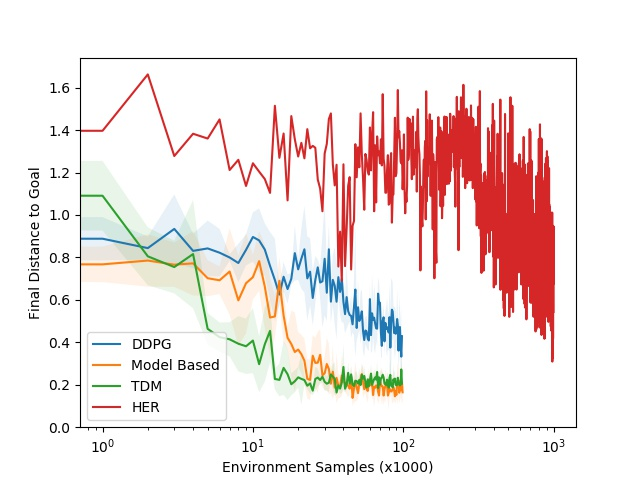
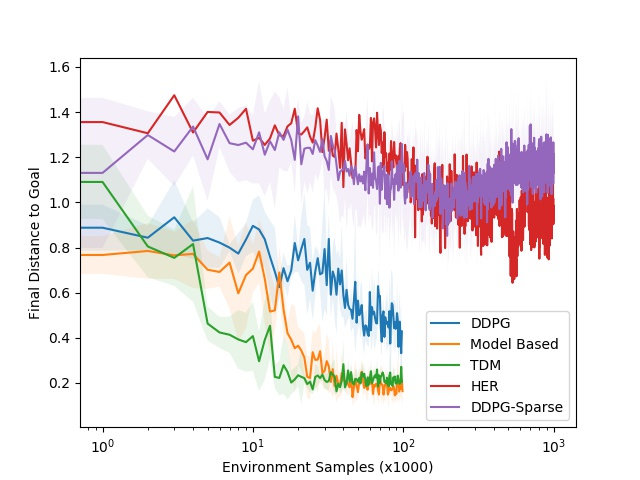
finish pusher plot

diff --git a/experiments/state_distance/iclr2018/pusher_results.py b/experiments/state_distance/iclr2018/pusher_results.py
@@ -4,78 +4,80 @@ import numpy as np
 
 from railrl.misc.visualization_util import sliding_mean
 
-her_exp = Experiment(
-    "/home/vitchyr/git/railrl/data/doodads3/12-22-her-andrychowicz-try-hard-2/"
-)
-her_andry_trials = her_exp.get_trials({
-    'env_class.$class': 'railrl.envs.multitask.pusher2d.CylinderXYPusher2DEnv',
-    'exp_id': '22',
-})
+def main():
+    her_andry_trials = Experiment(
+        "/home/vitchyr/git/railrl/data/doodads3/12-24-her-andrychowicz-pusher-rebutal/"
+    ).get_trials({
+        'exp_id': '11',
+    })
 
-ddpg_path = "/mnt/data-backup-12-02-2017/doodads3/10-25-ddpg-pusher-again-baseline-with-reward-bonus/"
-ddpg_criteria = {
-    'algo_params.num_updates_per_env_step': 5,
-    'algo_params.scale_reward': 1,
-    'algo_params.tau': 0.01,
-}
-mb_path = "/mnt/data-backup-12-02-2017/doodads3/10-25-abhishek-mb-baseline-pusher-again-shaped/"
-mb_criteria = None
-our_path = "/mnt/data-backup-12-02-2017/doodads3/11-02-get-results-handxyxy-small-sweep"
-our_criteria = {
-    'algo_params.num_updates_per_env_step': 5,
-    'epoch_discount_schedule_params.value': 5,
-    'algo_params.tau': 0.001,
-}
-ddpg_indicator_trials = Experiment(
-    "/home/vitchyr/git/railrl/data/doodads3/12-23-ddpg-sparse-sweep-4/"
-).get_trials({
-    'env_class.$class': 'railrl.envs.multitask.pusher2d.CylinderXYPusher2DEnv',
-    'ddpg_tdm_kwargs.base_kwargs.num_updates_per_env_step': 1,
-})
+    ddpg_path = "/mnt/data-backup-12-02-2017/doodads3/10-25-ddpg-pusher-again-baseline-with-reward-bonus/"
+    ddpg_criteria = {
+        'algo_params.num_updates_per_env_step': 5,
+        'algo_params.scale_reward': 1,
+        'algo_params.tau': 0.01,
+    }
+    mb_path = "/mnt/data-backup-12-02-2017/doodads3/10-25-abhishek-mb-baseline-pusher-again-shaped/"
+    mb_criteria = None
+    our_path = "/mnt/data-backup-12-02-2017/doodads3/11-02-get-results-handxyxy-small-sweep"
+    our_criteria = {
+        'algo_params.num_updates_per_env_step': 5,
+        'epoch_discount_schedule_params.value': 5,
+        'algo_params.tau': 0.001,
+    }
+    ddpg_indicator_trials = Experiment(
+        "/home/vitchyr/git/railrl/data/doodads3/12-23-ddpg-sparse-sweep-4/"
+    ).get_trials({
+        'env_class.$class': 'railrl.envs.multitask.pusher2d.CylinderXYPusher2DEnv',
+        'ddpg_tdm_kwargs.base_kwargs.num_updates_per_env_step': 1,
+    })
 
-ddpg_exp = Experiment(ddpg_path)
-mb_exp = Experiment(mb_path)
-our_exp = Experiment(our_path)
+    ddpg_exp = Experiment(ddpg_path)
+    mb_exp = Experiment(mb_path)
+    our_exp = Experiment(our_path)
 
-ddpg_trials = ddpg_exp.get_trials(ddpg_criteria)
-mb_trials = mb_exp.get_trials(mb_criteria)
-our_trials = our_exp.get_trials(our_criteria)
-MAX_ITERS = 1000
+    ddpg_trials = ddpg_exp.get_trials(ddpg_criteria)
+    mb_trials = mb_exp.get_trials(mb_criteria)
+    our_trials = our_exp.get_trials(our_criteria)
+    MAX_ITERS = 1000
 
-base_key = 'Final_Euclidean_distance_to_goal_Mean'
-plt.figure()
-for trials, name, key in [
-    (ddpg_trials, 'DDPG', base_key),
-    (mb_trials, 'Model Based', base_key),
-    (our_trials, 'TDM', 'test_'+base_key),
-    (her_andry_trials, 'HER', "Final Distance object to goal Mean"),
-    (ddpg_indicator_trials, 'DDPG-Sparse', base_key),
-]:
-    key = key.replace(" ", "_")
-    all_values = []
-    min_len = np.inf
-    for trial in trials:
-        values_ts = trial.data[key]
-        min_len = min(min_len, len(values_ts))
-        all_values.append(values_ts)
-    costs = np.vstack([
-        values[:min_len]
-        for values in all_values
-    ])
-    costs = costs[:, :min(costs.shape[1], MAX_ITERS)]
-    if name == 'HER':
-        costs = sliding_mean(costs, 20)
-    mean = np.mean(costs, axis=0)
-    std = np.std(costs, axis=0)
-    epochs = np.arange(0, len(costs[0]))
-    plt.fill_between(epochs, mean - std, mean + std, alpha=0.1)
-    plt.plot(epochs, mean, label=name)
-
+    base_key = 'Final_Euclidean_distance_to_goal_Mean'
+    plt.figure()
+    for trials, name, key in [
+        (ddpg_trials, 'DDPG', base_key),
+        (mb_trials, 'Model Based', base_key),
+        (our_trials, 'TDM', 'test_'+base_key),
+        (her_andry_trials, 'HER', "Final Distance object to goal Mean"),
+        (ddpg_indicator_trials, 'DDPG-Sparse', "Final Distance object to goal Mean"),
+    ]:
+        key = key.replace(" ", "_")
+        all_values = []
+        min_len = np.inf
+        for trial in trials:
+            values_ts = trial.data[key]
+            min_len = min(min_len, len(values_ts))
+            all_values.append(values_ts)
+        costs = np.vstack([
+            values[:min_len]
+            for values in all_values
+        ])
+        costs = costs[:, :min(costs.shape[1], MAX_ITERS)]
+        if name == 'HER':
+            costs = sliding_mean(costs, 20)
+        mean = np.mean(costs, axis=0)
+        std = np.std(costs, axis=0)
+        epochs = np.arange(0, len(costs[0]))
+        plt.fill_between(epochs, mean - std, mean + std, alpha=0.1)
+        plt.plot(epochs, mean, label=name)
 
 
-plt.xscale('log')
-plt.xlabel("Environment Samples (x1000)")
-plt.ylabel("Final Distance to Goal")
-plt.legend()
-plt.savefig('results/iclr2018/pusher.jpg')
-plt.show()
+
+    plt.xscale('log')
+    plt.xlabel("Environment Samples (x1000)")
+    plt.ylabel("Final Distance to Goal")
+    plt.legend()
+    plt.savefig('results/iclr2018/pusher.jpg')
+    plt.show()
+
+if __name__ == '__main__':
+    main()
